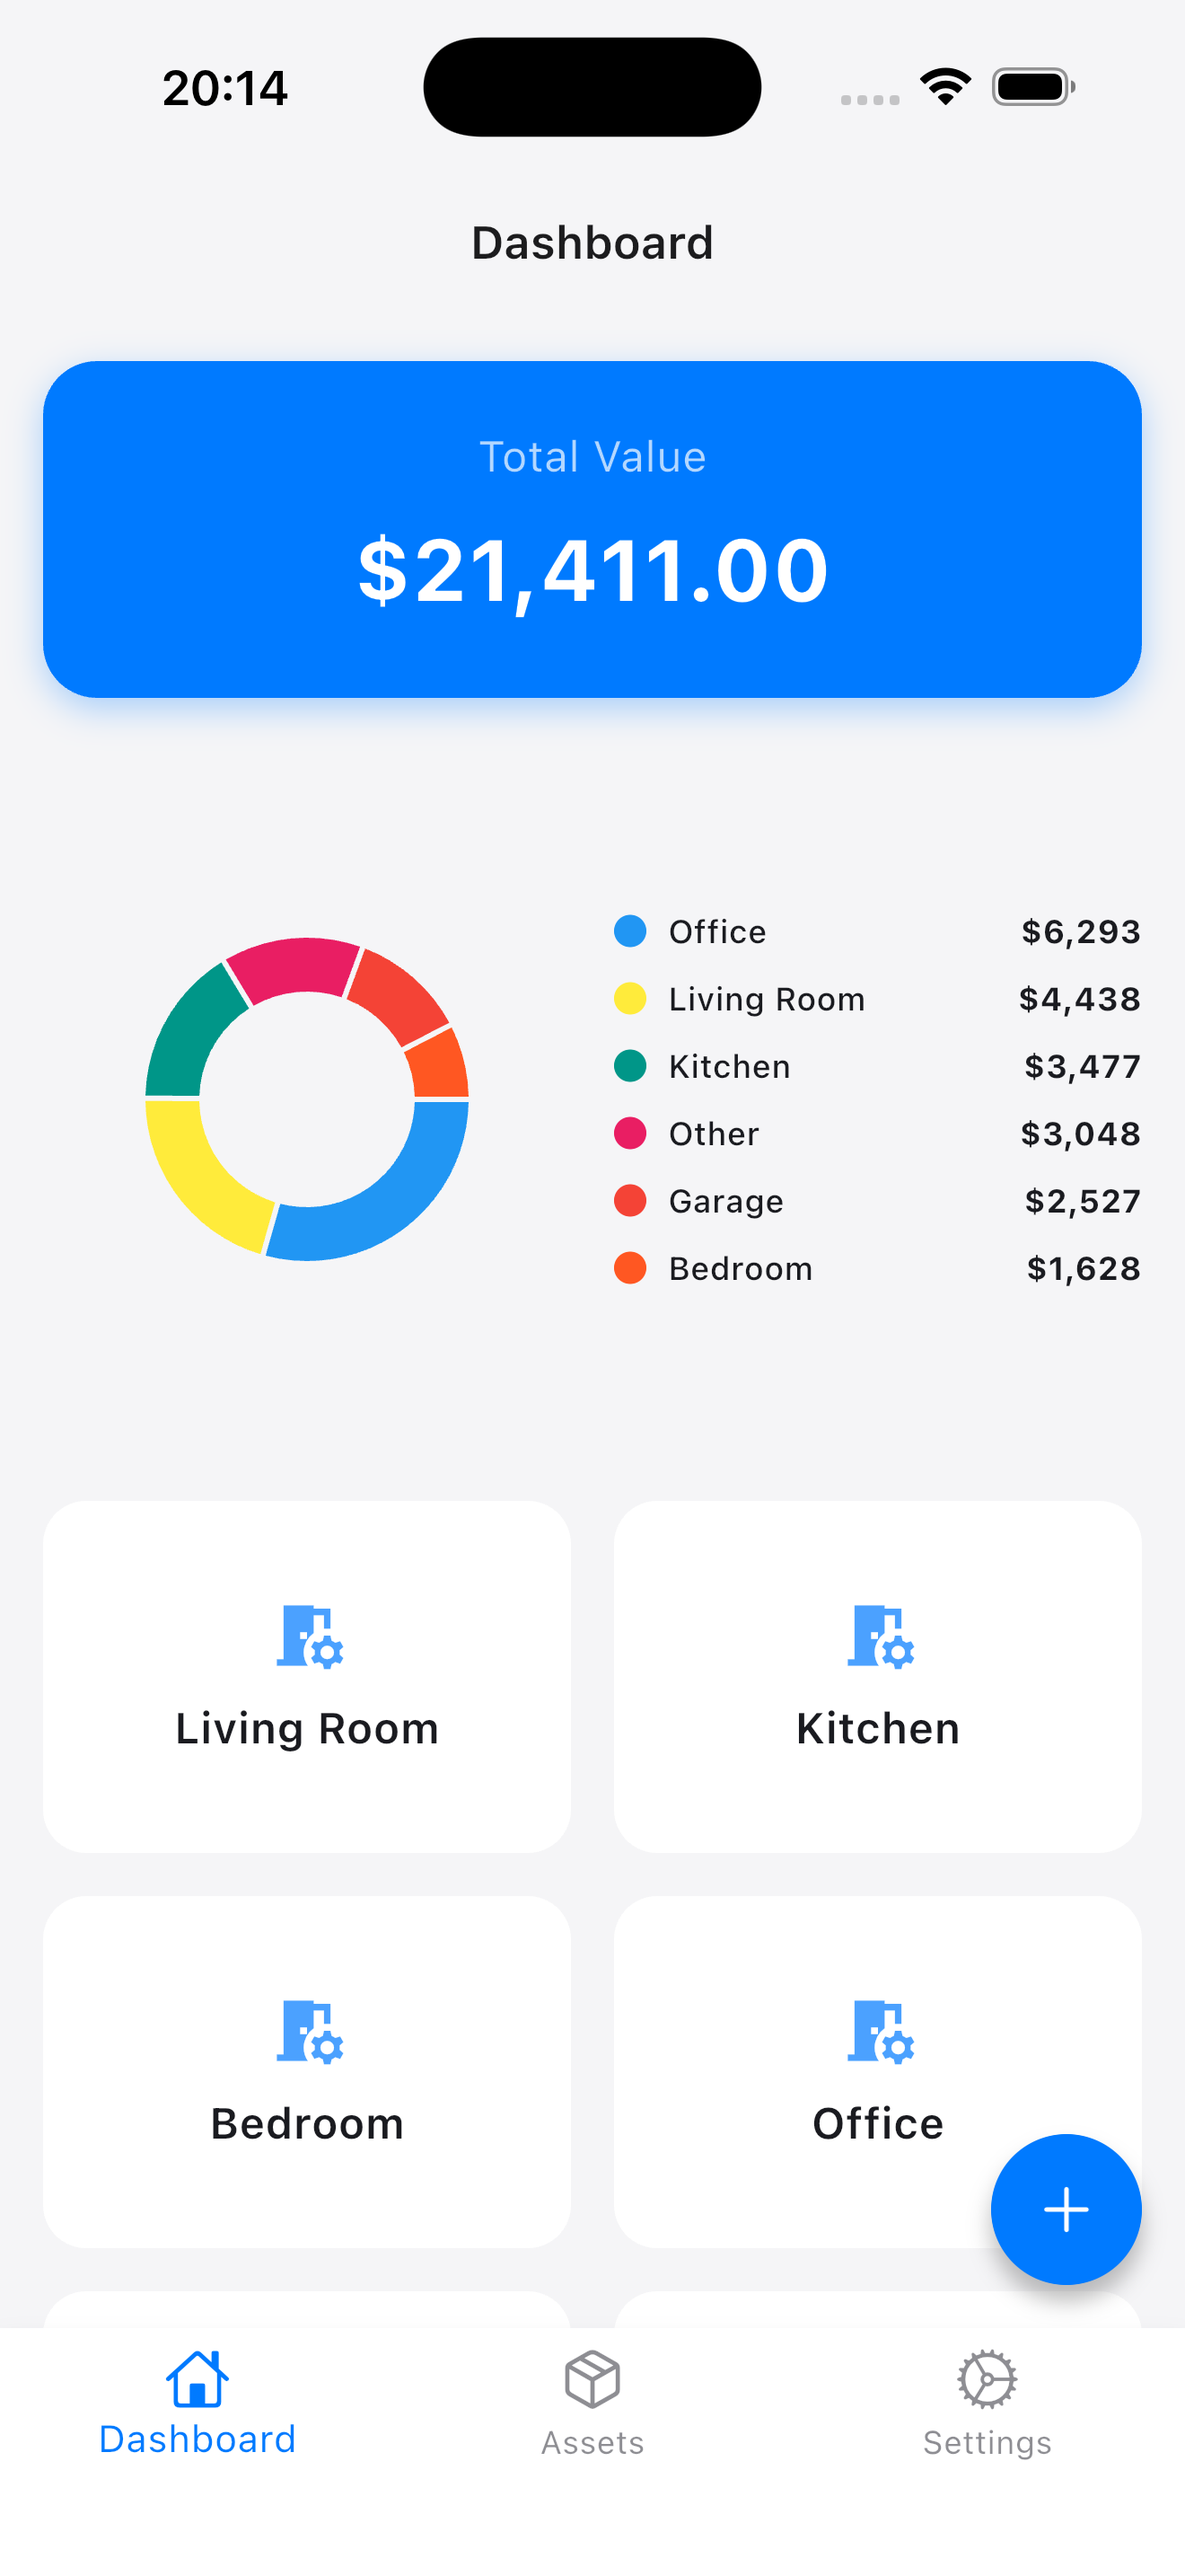
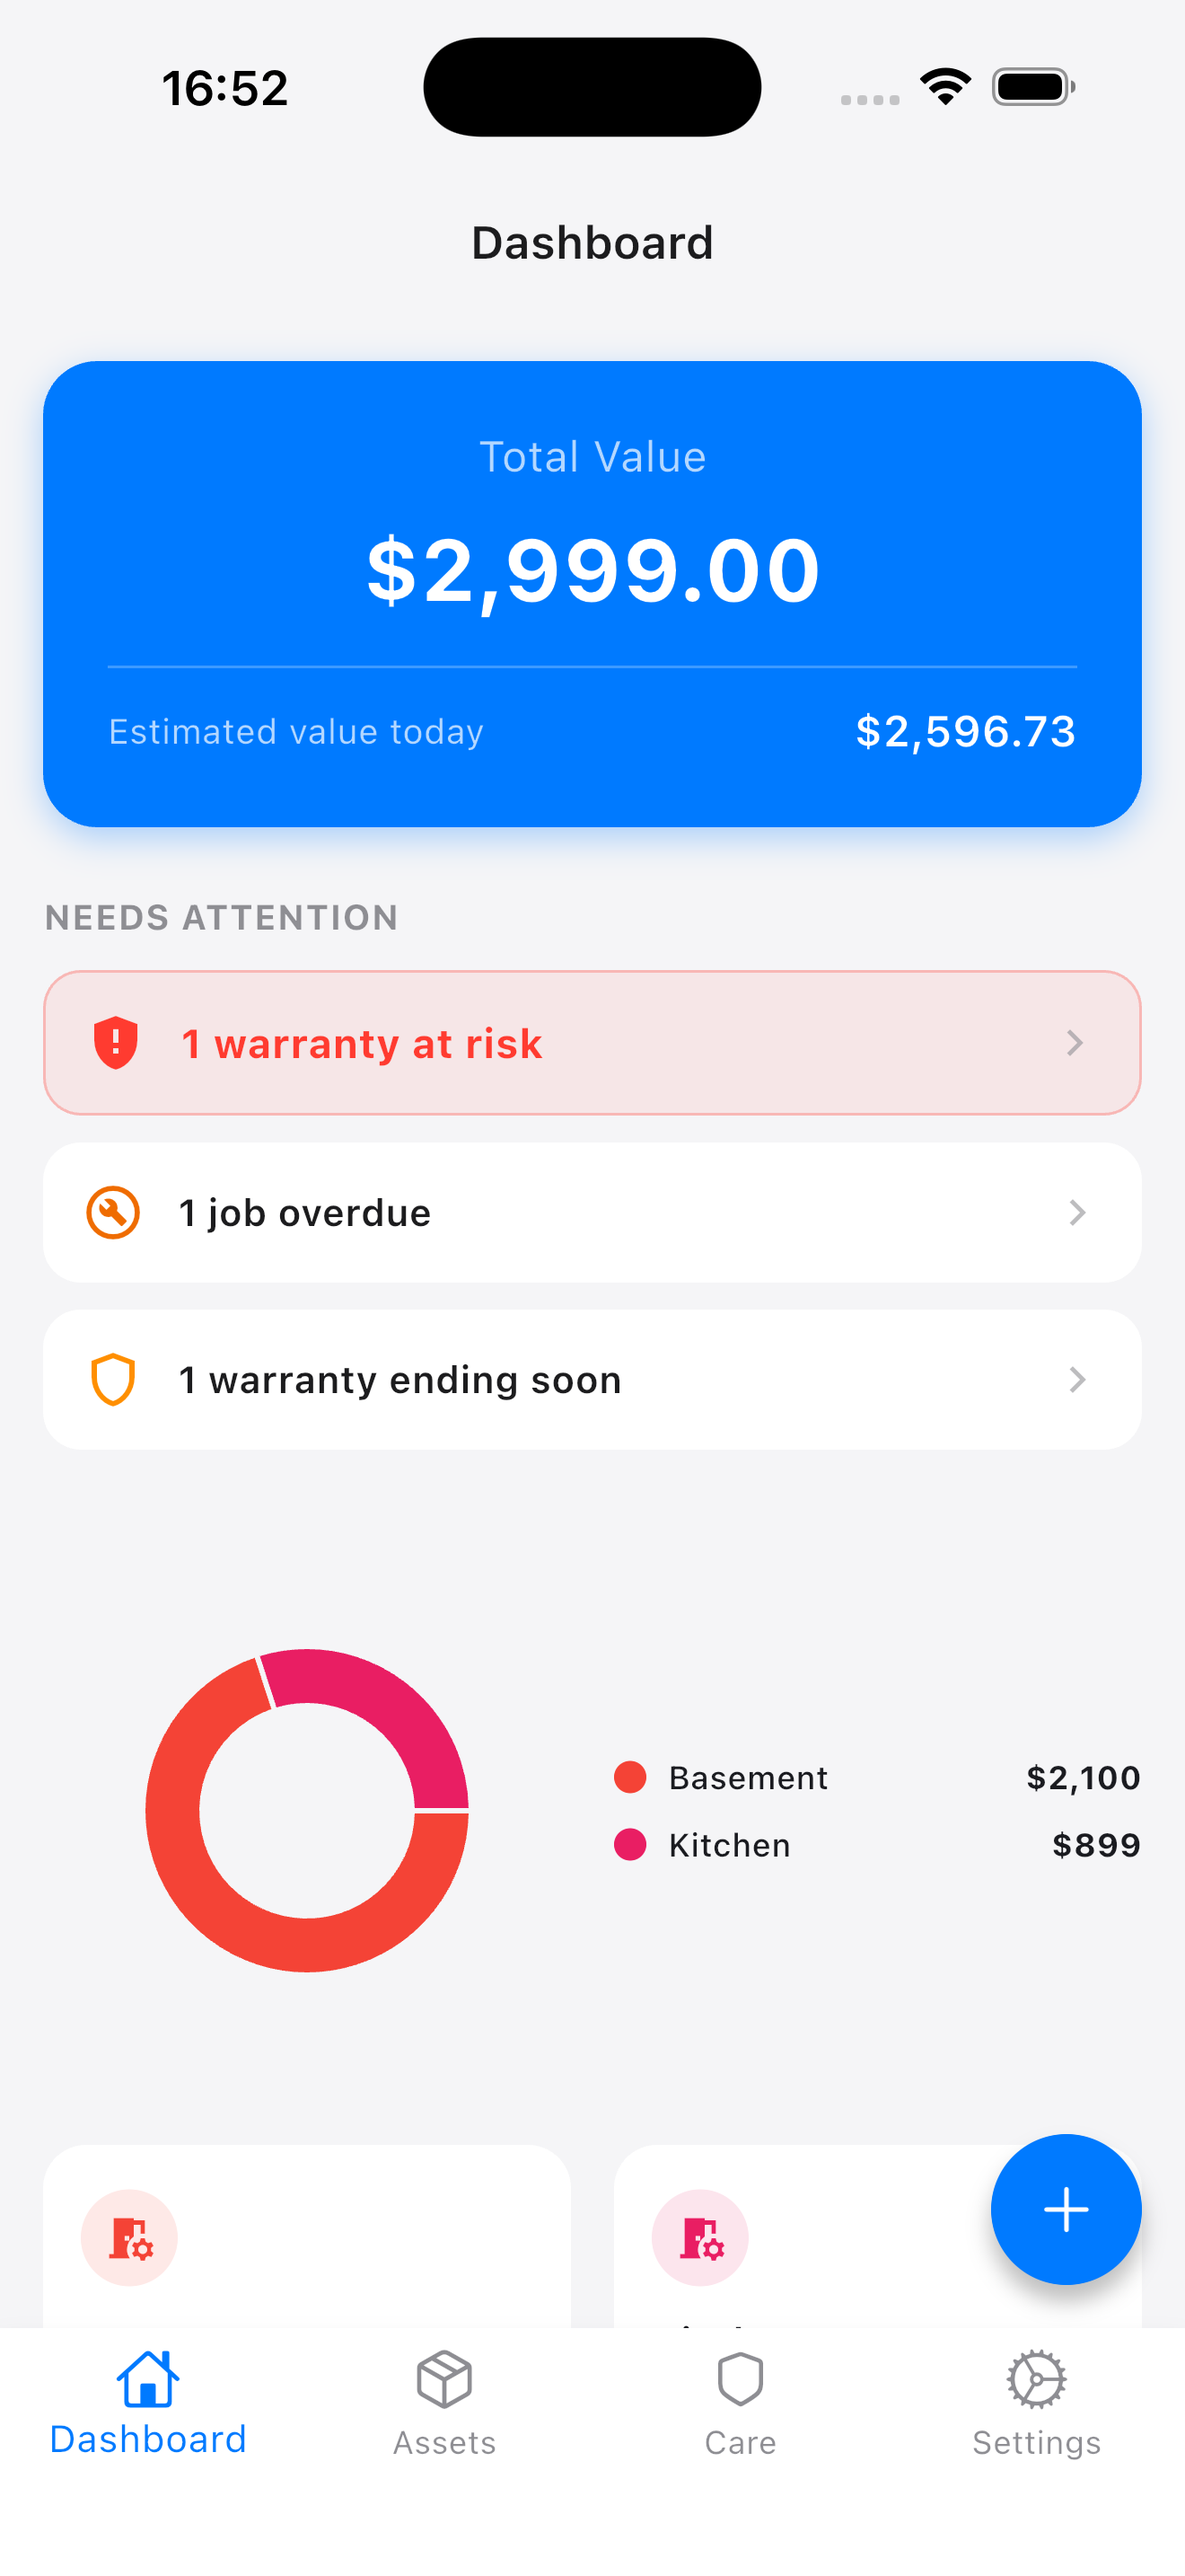
chore: re-shoot the store screenshots, and keep the thing that took them
The committed set was eight pictures of an app that has since grown a
Care tab, an edit screen, Quick Capture, a warranty prompt, a reworked
dashboard and a different paywall. Fourteen now, and the walk that
produces them is checked in beside them rather than living in a scratch
directory on one machine.

Two things had to be fixed before the harness produced anything usable,
and neither could have been found by reading it.

It photographed the welcome screen fourteen times. OnboardingGate holds
WelcomeScreen in front of MainScreen until hasOnboarded is set, and the
walk has no way through it, so every tab switch and every tap quietly
missed. It did not fail while doing this -- it printed a warning per step
and carried on capturing the same picture, which is exactly the shape of
bug that survives a code review.

And it priced a listing aimed at dollars and euros in Vietnamese dong.
That is the currency-from-device-locale default working correctly and
being wrong for this one purpose; the harness now pins currency and
language, overridable per run so a German set is one flag away.

Known and left alone: the dashboard shot cuts through the room grid,
because it is a scrolling screen and a screenshot has to stop somewhere.
Restyling the dashboard to flatter a screenshot is the wrong way round.

Also known: the paywall's button shows no price, because a simulator with
no StoreKit configuration has no offering to quote. That needs the real
[…]

diff --git a/lib/main_screenshots.dart b/lib/main_screenshots.dart
@@ -363,6 +363,34 @@ Future<void> main() async {
 
   final prefs = await SharedPreferences.getInstance();
 
+  // Past the welcome screen and the lock before the walk starts.
+  //
+  // A fresh install is the honest state to screenshot from in every respect
+  // but this one: OnboardingGate holds WelcomeScreen in front of MainScreen
+  // until this flag is set, and the walk has no way through it. Left unset,
+  // every "screen" the harness captures is the welcome screen -- and it does
+  // not fail while doing it, it just quietly photographs the same thing
+  // fourteen times.
+  await prefs.setBool('hasOnboarded', true);
+  await prefs.setBool('isBiometricEnabled', false);
+
+  // Pinned rather than inherited from the simulator.
+  //
+  // A fresh install now takes its currency from the device region, which is
+  // right for a real owner and wrong for a store listing: shots taken on a
+  // Vietnamese simulator came out priced in dong for a listing aimed at
+  // dollars and euros. Override per run:
+  //   flutter run -t lib/main_screenshots.dart --dart-define=SHOT_CURRENCY=EUR
+  //                                            --dart-define=SHOT_LANGUAGE=de
+  await prefs.setString(
+    'currencyCode',
+    const String.fromEnvironment('SHOT_CURRENCY', defaultValue: 'USD'),
+  );
+  await prefs.setString(
+    'languageCode',
+    const String.fromEnvironment('SHOT_LANGUAGE', defaultValue: 'en'),
+  );
+
   runApp(
     ProviderScope(
       overrides: [sharedPreferencesProvider.overrideWithValue(prefs)],
